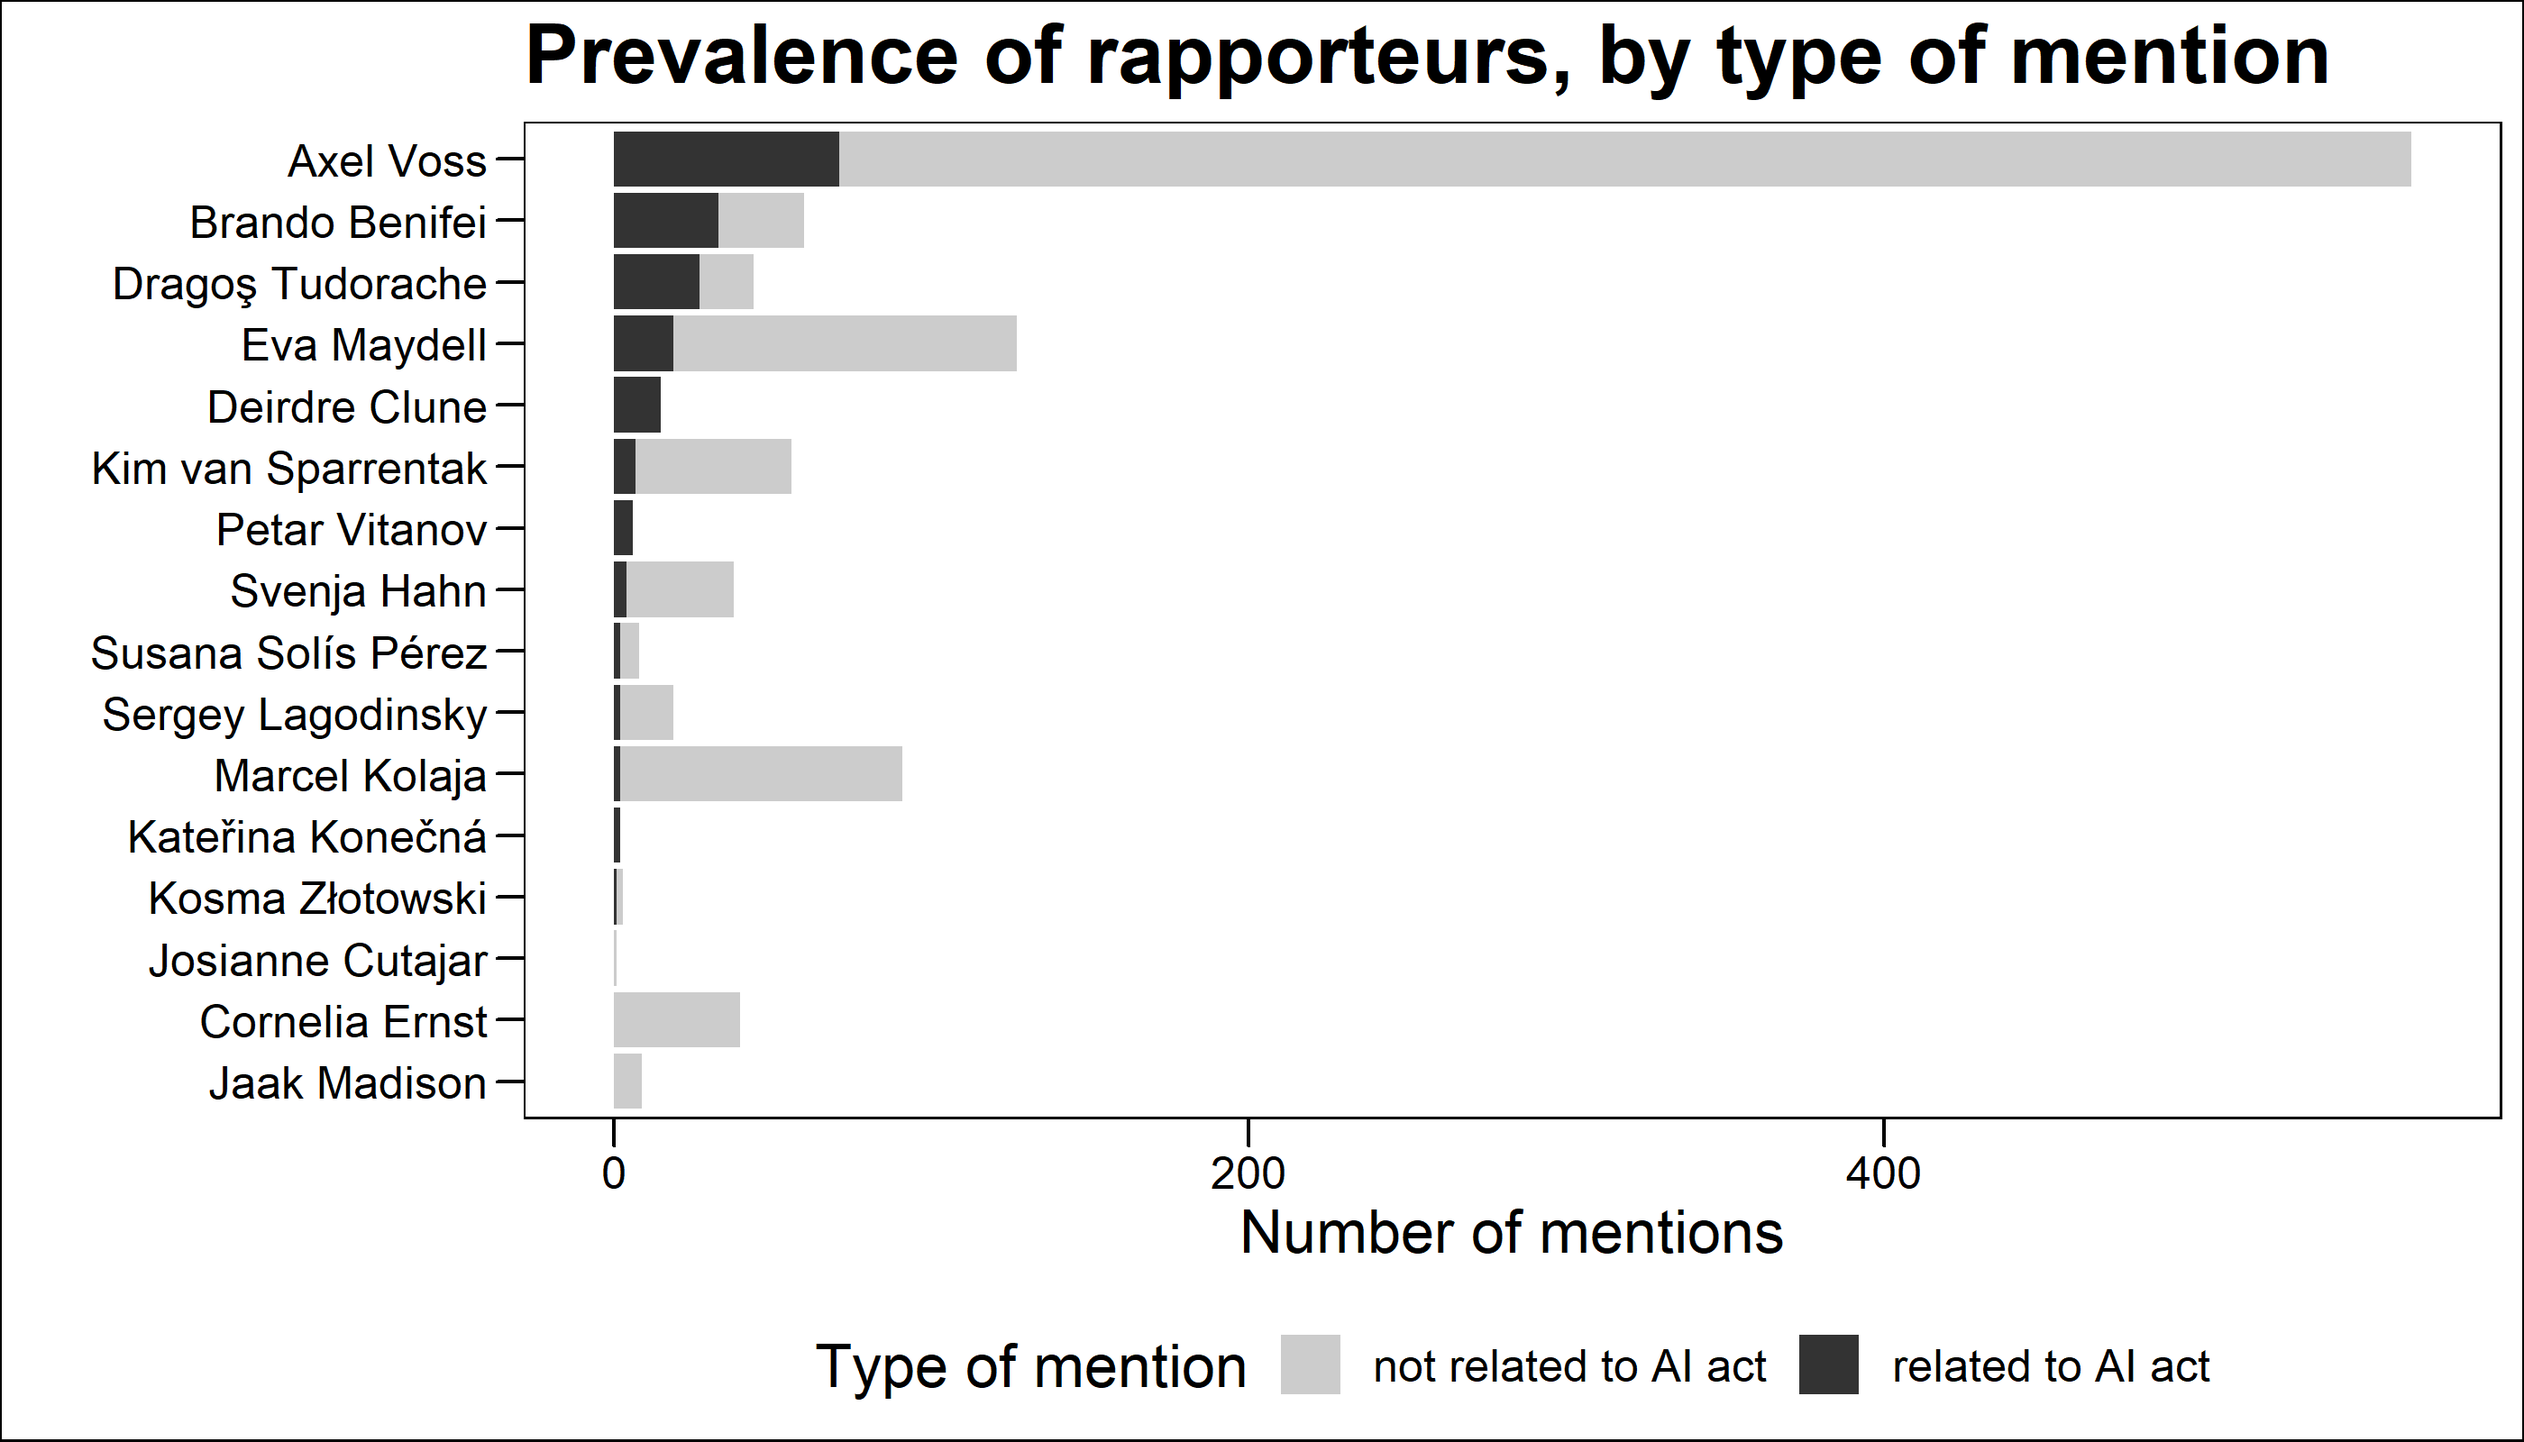
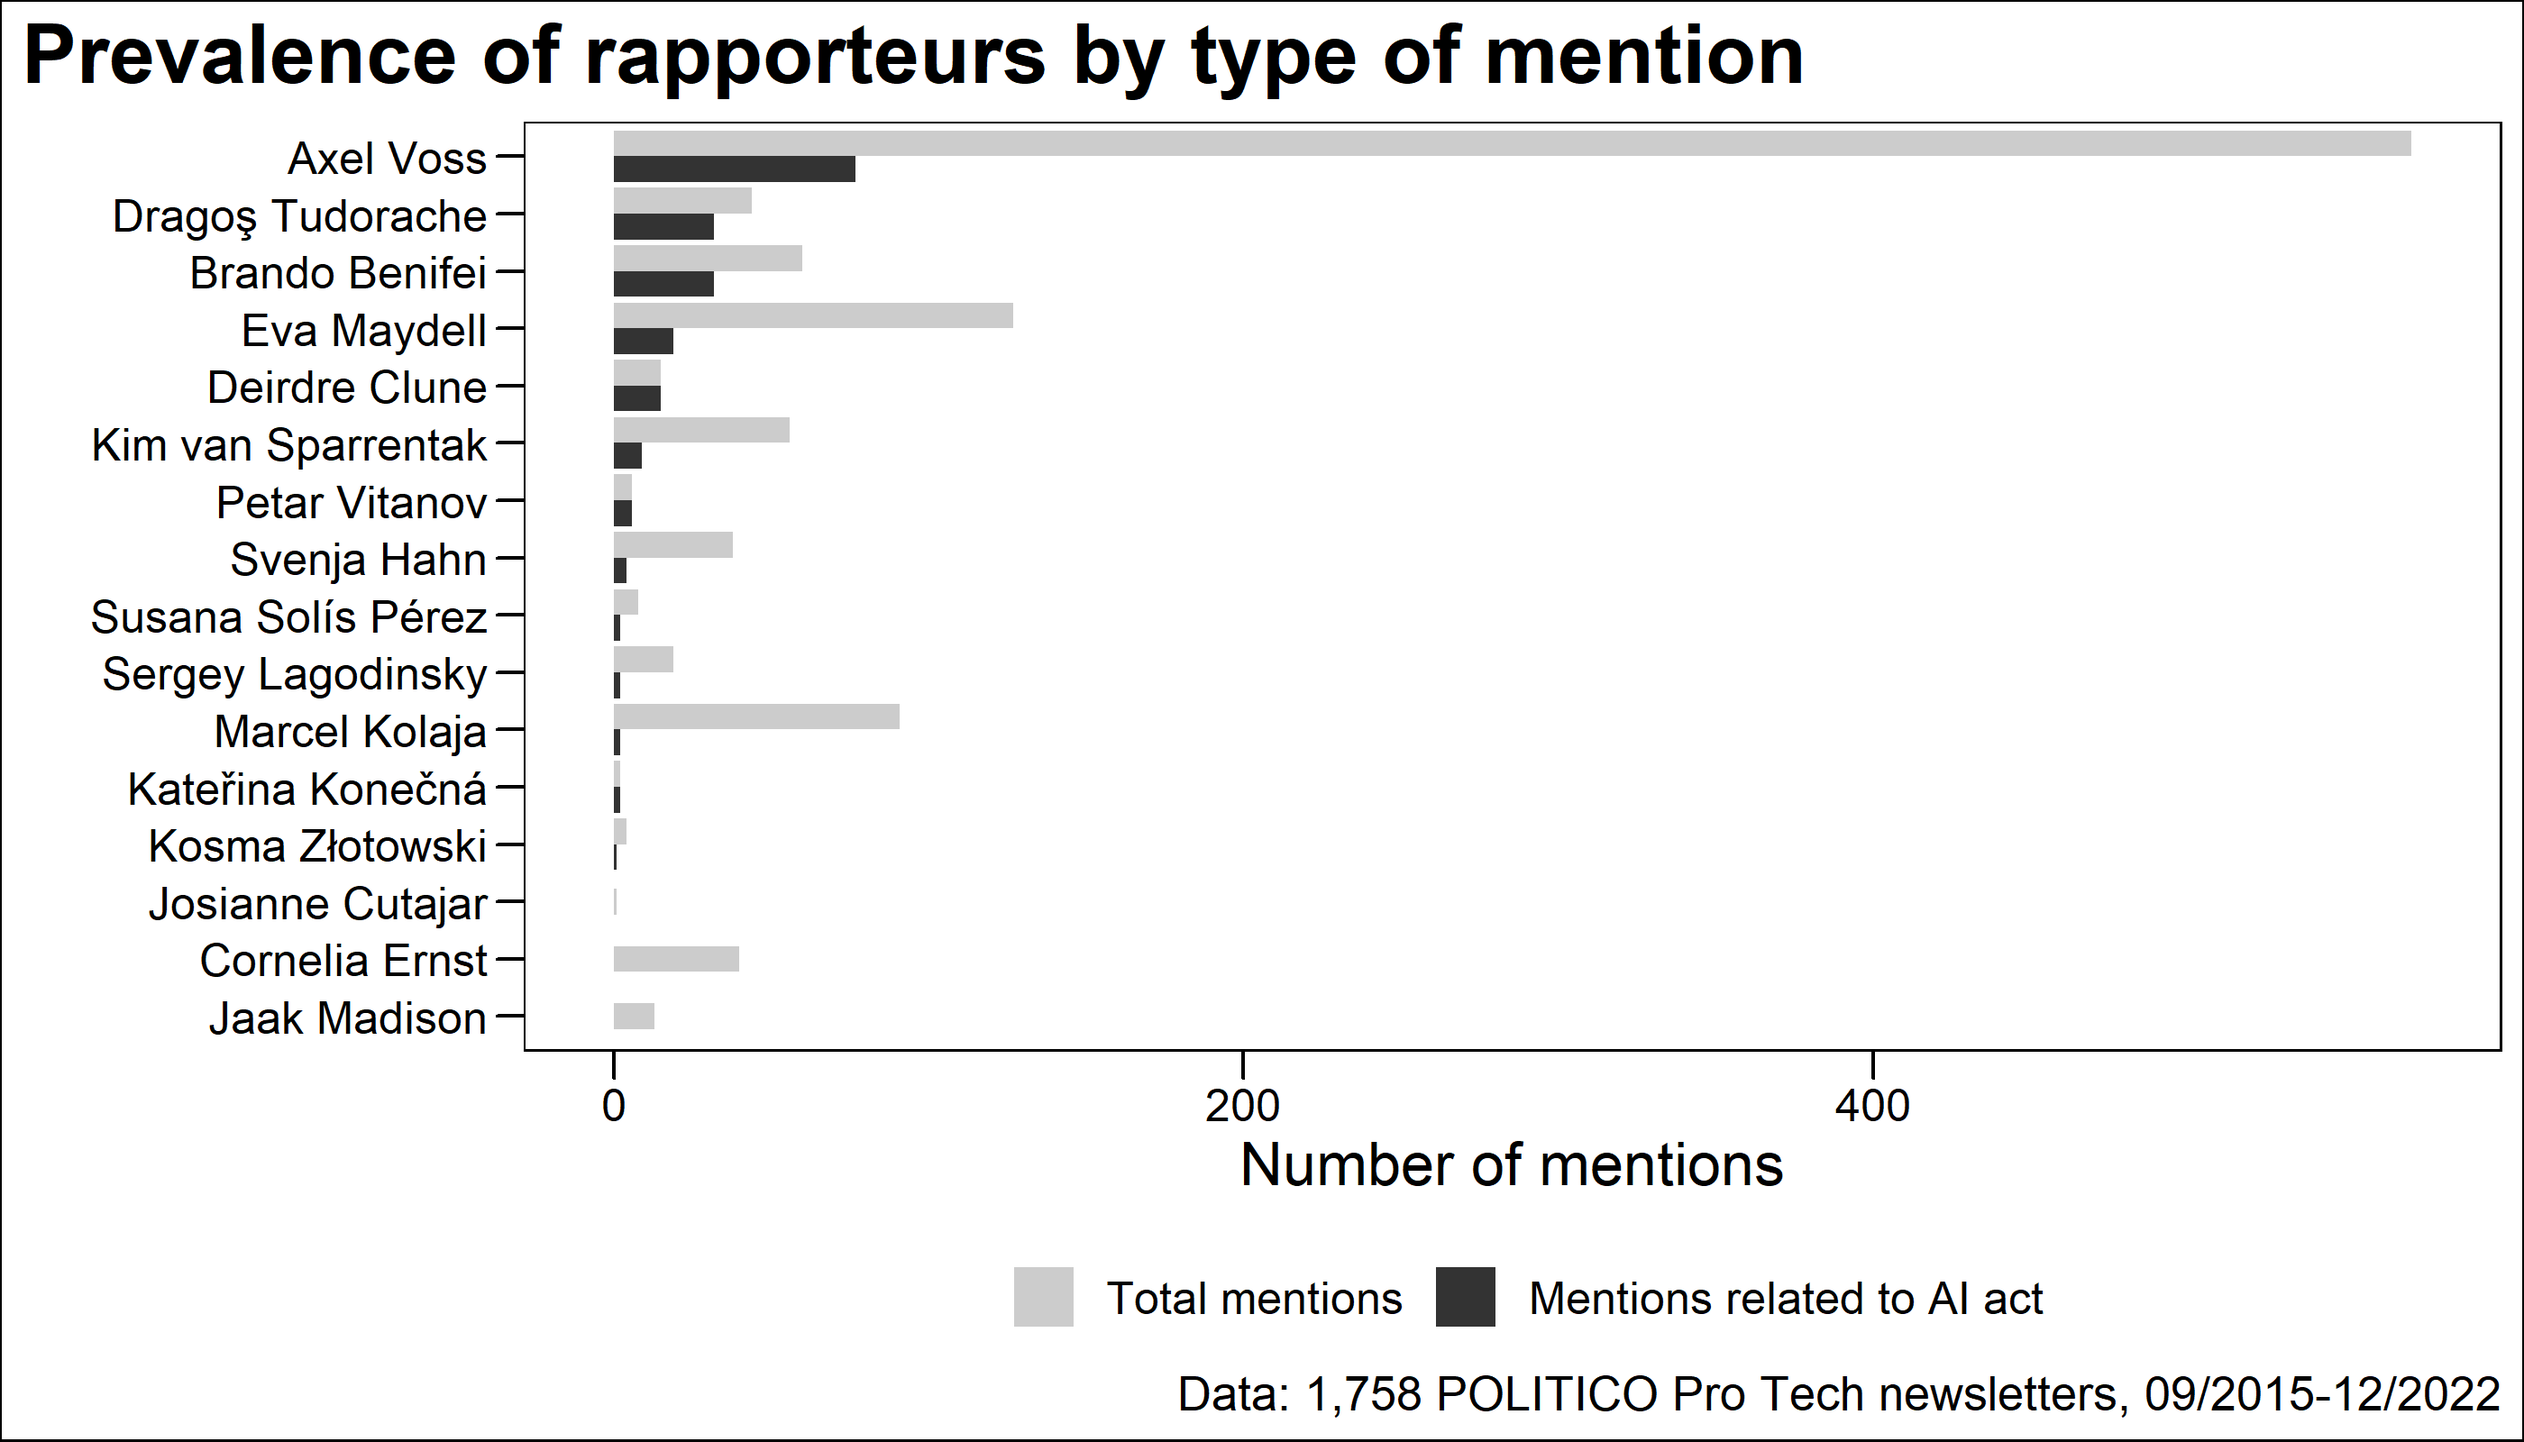
update entity retrieval & visualization
include AI act rather than just AI in detection of string

diff --git a/0-entity-retrieval.py b/0-entity-retrieval.py
@@ -80,26 +80,34 @@ if False:
     # use --> df['new_col'] =  df['old_col'].str.findall(r'>([A-Z][^<]+)<')
 
 if True:  # attempt #3: extract paragraphs (s. above) using findall to extract ALL paragraphs
-    matchstring_AI_paragraph: str = r'(<p>(?:(?!<p>).)*?(artificial intelligence|\sAI(\s|\.)|ARTIFICIAL INTELLIGENCE(?!\s*\<\/span\>)).+?<\/p>)'
-    newsletters['html_AI_p_matches'] = newsletters['html'].str.findall(matchstring_AI_paragraph)
+    matchstring_AI_paragraph: str     = r'(<p>(?:(?!<p>).)*?((A|a)rtificial (I|i)ntelligence|\sAI(\s|\.)|ARTIFICIAL INTELLIGENCE(?!\s*\<\/span\>)).+?<\/p>)'
+    matchstring_AI_act_paragraph: str = r'(<p>(?:(?!<p>).)*?(((A|a)rtificial (I|i)ntelligence|\sAI(\s|\.)|ARTIFICIAL INTELLIGENCE\s+(A|a)ct(?!\s*\<\/span\>))).+?<\/p>)'
+
+    newsletters['html_AI_p_matches']    = newsletters['html'].str.findall(matchstring_AI_paragraph)
+    newsletters['html_AIact_p_matches'] = newsletters['html'].str.findall(matchstring_AI_act_paragraph)
     # find all occurences of "AI" (etc.; except in tables [i.e. headlines]) and get all surrounding paragraphs --> list of tuples (len: 3); first elemen is text
 
-    newsletters['html_AI_p_raw'] = newsletters['html_AI_p_matches'].apply(lambda cell_list: [tup[0] for tup in cell_list])
+    newsletters['html_AI_p_raw']    = newsletters['html_AI_p_matches'].apply(lambda cell_list: [tup[0] for tup in cell_list])
+    newsletters['html_AIact_p_raw'] = newsletters['html_AIact_p_matches'].apply(lambda cell_list: [tup[0] for tup in cell_list])
     # get first element from each tuple --> list of strings, each containing the paragraph of interest
 
-    newsletters['html_AI_p_raw'] = [' '.join(map(str, l)) for l in newsletters['html_AI_p_raw']]
+
+    newsletters['html_AI_p_raw'] =    [' '.join(map(str, l)) for l in newsletters['html_AI_p_raw']]
+    newsletters['html_AIact_p_raw'] = [' '.join(map(str, l)) for l in newsletters['html_AIact_p_raw']]
     # transform each cell containing a list of strings to one string per cell
 
-    newsletters['html_AI_p_raw'] = newsletters['html_AI_p_raw'].apply(BeautifulSoup)  # transform to bs object
+    newsletters['html_AI_p_raw'] =    newsletters['html_AI_p_raw'].apply(BeautifulSoup)  # transform to bs object
+    newsletters['html_AIact_p_raw'] = newsletters['html_AIact_p_raw'].apply(BeautifulSoup)  # transform to bs object
 
     # FLAG FOR POTENTIAL EXTENSION (later): split here on </p><p> into paragraphs and make each paragraph one df row
 
-    newsletters['AI_paragraphs'] = newsletters['html_AI_p_raw'].apply(BeautifulSoup.get_text)  # remove HTML tags
+    newsletters['AI_paragraphs'] =    newsletters['html_AI_p_raw'].apply(BeautifulSoup.get_text)  # remove HTML tags
+    newsletters['AIact_paragraphs'] = newsletters['html_AIact_p_raw'].apply(BeautifulSoup.get_text)  # remove HTML tags
 
     # clean AI_paragraphs: replace (\sAI(\.|\s)|ARTIFICIAL INTELLIGENCE|artificial intelligence) with artificial_intelligence
     matchstring_AI_term = r"(\sAI(\.|\s)|ARTIFICIAL INTELLIGENCE|artificial intelligence)"
-    newsletters['AI_paragraphs'] = newsletters['AI_paragraphs'].str.replace(matchstring_AI_term,
-                                                                            " artificial_intelligence ", regex=True)
+    newsletters['AI_paragraphs'] =    newsletters['AI_paragraphs'].str.replace(matchstring_AI_term, " artificial_intelligence ", regex=True)
+    newsletters['AIact_paragraphs'] = newsletters['AIact_paragraphs'].str.replace(matchstring_AI_term, " artificial_intelligence ", regex=True)
 
     del matchstring_AI_paragraph, matchstring_AI_term, newsletters['html_AI_p_raw']
 
@@ -107,7 +115,7 @@ if True:  # attempt #3: extract paragraphs (s. above) using findall to extract A
 newsletters['general_text'] = newsletters['html'].apply(BeautifulSoup, "lxml")  # transform to bs object
 newsletters['general_text'] = newsletters['general_text'].apply(BeautifulSoup.get_text)  # remove HTML tags
 
-newsletters = newsletters[['date', 'general_text',  'AI_paragraphs']]
+newsletters = newsletters[['date', 'general_text',  'AI_paragraphs', 'AIact_paragraphs']]
 
 #%% prepare entity recognition of rapporteurs: load & preprocess rapporteurs
 rapporteurs: pd.DataFrame = pd.read_json("./data/raw/Rapporteurs - AI act bill.json")
@@ -130,9 +138,11 @@ del rapporteurs, k
 #%% entity recognition from the other json: how often are those entities mentioned? (i.e. the different people)
 
 newsletters['AI_paragraphs_spacy'] = [doc for doc in nlp.pipe(newsletters['AI_paragraphs'].tolist())]  # convert to spacy object
+newsletters['AIact_paragraphs_spacy'] = [doc for doc in nlp.pipe(newsletters['AIact_paragraphs'].tolist())]  # convert to spacy object
 newsletters['general_text_spacy'] = [doc for doc in nlp.pipe(newsletters['general_text'].tolist())]  # convert to spacy object
 
 type(newsletters.at[157233, 'AI_paragraphs_spacy']) # check that cell contains a spaCy Doc object
+type(newsletters.at[157233, 'AIact_paragraphs_spacy']) # check that cell contains a spaCy Doc object
 type(newsletters.at[157233, 'general_text_spacy']) # check that cell contains a spaCy Doc object
 
 # prepare patterns from rapporteur names
@@ -162,10 +172,11 @@ for pat in patterns:
     #   name & last_name of MEP as match patterns
 
 # apply mapper
-newsletters['rapporteur_matches_AI_paragraphs'] = newsletters['AI_paragraphs_spacy'].apply(matcher_meps)  # match patterns
-newsletters['rapporteur_matches_overall'] =       newsletters['general_text_spacy'].apply(matcher_meps)  # match patterns
+newsletters['rapporteur_matches_AI_paragraphs']    = newsletters['AI_paragraphs_spacy'].apply(matcher_meps)  # match patterns
+newsletters['rapporteur_matches_AIact_paragraphs'] = newsletters['AIact_paragraphs_spacy'].apply(matcher_meps)  # match patterns
+newsletters['rapporteur_matches_overall']          = newsletters['general_text_spacy'].apply(matcher_meps)  # match patterns
 
-del k, mep_ids_raw, p_lastname, p_name, nlp, matcher_meps, patterns, pat, rapporteurs_dict
+del k, mep_ids_raw, p_lastname, p_name, nlp, matcher_meps, patterns, pat
 
 #%% aggregate and validate entity matches
 
@@ -177,20 +188,29 @@ if True:  # option 1: one column per rapporteur, with counts of occurences
     # rename columns
     newsletters = newsletters.rename(columns={k: str(v) + "_AIpar" for k, v in mep_column_mapper.items()})
 
+    # aggregate matches from AI paragraphs
+    newsletters = newsletters.join(newsletters['rapporteur_matches_AIact_paragraphs'].apply(
+        count_tup_first_values, args=(mep_ids,)))  # extract values & rejoin
+
+    # rename columns
+    newsletters = newsletters.rename(columns={k: str(v) + "_AIactpar" for k, v in mep_column_mapper.items()})
+
     # aggregate matches from general paragraphs
     newsletters = newsletters.join(newsletters['rapporteur_matches_overall'].apply(
         count_tup_first_values, args=(mep_ids,)))  # extract values & rejoin
 
     newsletters = newsletters.rename(columns={k: str(v) + "_total" for k, v in mep_column_mapper.items()})
 
-    newsletters_pivoting = newsletters.drop(columns=['general_text', 'AI_paragraphs', 'AI_paragraphs_spacy',
-                                                     'rapporteur_matches_overall', 'rapporteur_matches_AI_paragraphs',
-                                                     'general_text_spacy'])
+    newsletters_pivoting = newsletters.drop(columns=['general_text', 'general_text_spacy', 'rapporteur_matches_overall',
+                                                     'AI_paragraphs', 'AI_paragraphs_spacy', 'rapporteur_matches_AI_paragraphs',
+                                                     'AIact_paragraphs', 'AIact_paragraphs_spacy', 'rapporteur_matches_AIact_paragraphs'
+                                                     ])
 
-    for rapp in ['solís_pérez', 'cutajar', 'kolaja', 'maydell', 'benifei', 'tudorache', 'voss', 'clune', 'hahn', 'ernst',
-                 'van_sparrentak', 'lacapelle', 'otowski', 'konečná', 'vitanov', 'lagodinsky', 'rooken', 'madison']:
-        newsletters_pivoting[rapp + "_nonAIpar"] = \
-            newsletters_pivoting[rapp + "_total"] - newsletters_pivoting[rapp + "_AIpar"]
+    if False:
+        for rapp in ['solís_pérez', 'cutajar', 'kolaja', 'maydell', 'benifei', 'tudorache', 'voss', 'clune', 'hahn', 'ernst',
+                     'van_sparrentak', 'lacapelle', 'otowski', 'konečná', 'vitanov', 'lagodinsky', 'rooken', 'madison']:
+            newsletters_pivoting[rapp + "_nonAIpar"] = \
+                newsletters_pivoting[rapp + "_total"] - newsletters_pivoting[rapp + "_AIpar"]
 
     newsletters_pivoted: pd.DataFrame = pd.melt(newsletters_pivoting, id_vars=['date'],
                                                 value_vars=[col for col in newsletters_pivoting.drop(columns='date').columns],
@@ -199,7 +219,8 @@ if True:  # option 1: one column per rapporteur, with counts of occurences
 
     newsletters_pivoted[['rapporteur', 'topic']] =\
         newsletters_pivoted['rapporteur']\
-            .str.replace("_AIpar", " AI")\
+            .str.replace("_AIpar", " AI") \
+            .str.replace("_AIactpar", " AIact") \
             .str.replace("_nonAIpar", " nonAI")\
             .str.replace("_total", " total")\
             .str.split(expand=True)
